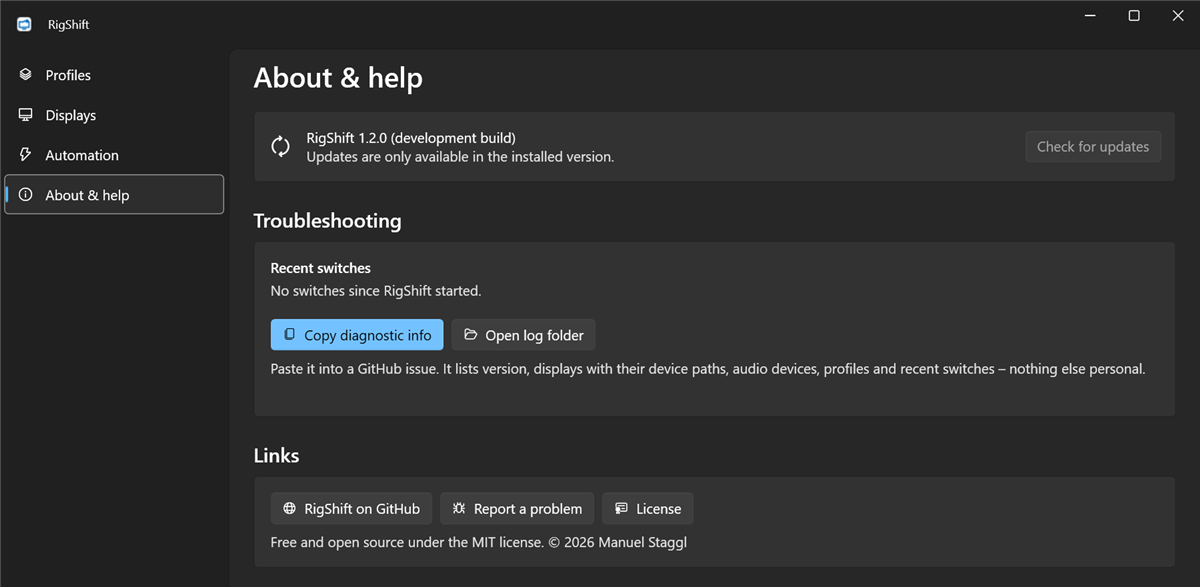
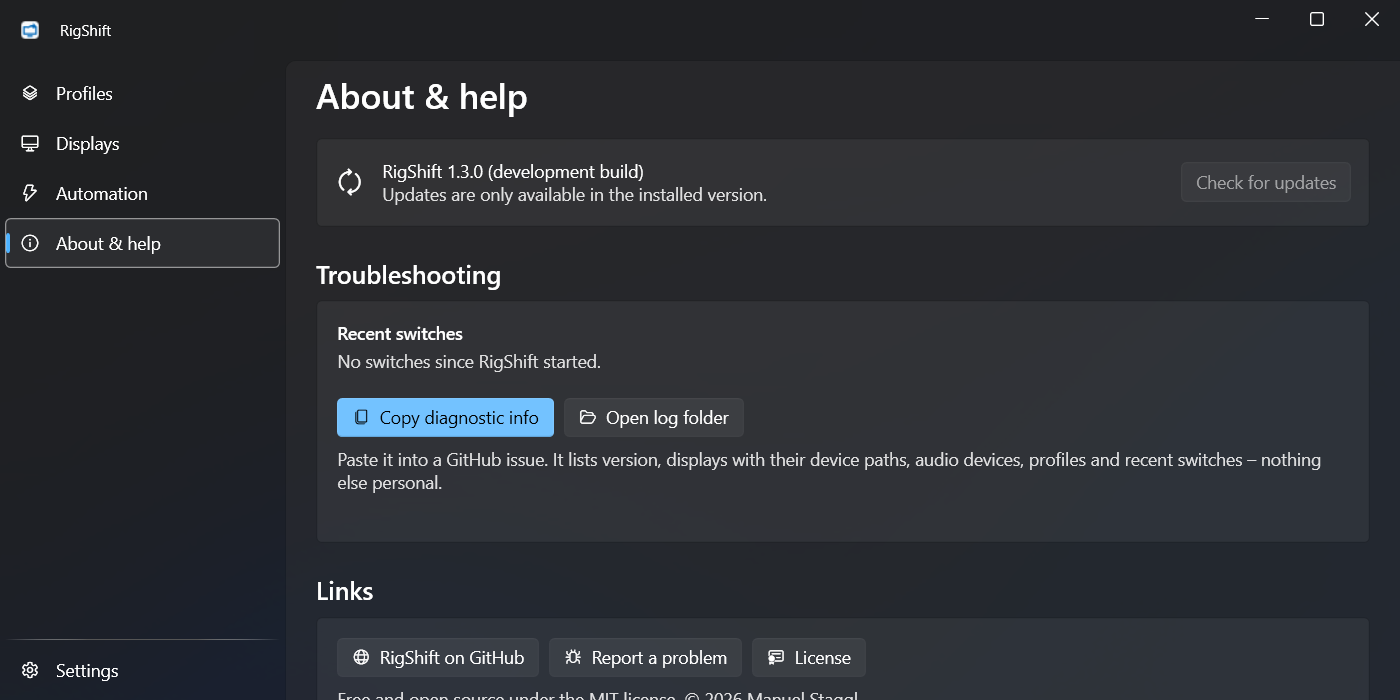
docs: README, roadmap and screenshots for 1.3.0

diff --git a/docs/ROADMAP.md b/docs/ROADMAP.md
@@ -2,6 +2,8 @@
 
 Status legend: 🟢 released · 🟡 built, hardware test pending · ⚪ planned · ❌ dropped
 
+RigShift is meant to stay small: switch into the rig and back, reliably.
+
 ## v1.0 – replace the script, small and stable
 
 | Milestone | Status | Scope |
@@ -14,24 +16,31 @@ Status legend: 🟢 released · 🟡 built, hardware test pending · ⚪ planned
 | M5 Hardware validation | 🟢 | Desk ↔ rig, sleeping HDMI monitor (error 31), missing spacedesk + follow-up, rollback on no confirmation |
 | M6 Release 1.0 | 🟢 | Velopack package, release workflow, README with screenshots, changelog |
 
-## v1.1 – triggering and control
+## v1.1 / v1.2 – triggering and control
 
 - 🟢 Global hotkeys per profile (1.2.0)
 - 🟢 `rigshift://apply/<name>` URI scheme (1.2.0)
 - 🟢 Recording device and separate communications role per profile (1.0)
-- 🟡 Volume per profile (playback and recording)
-- 🟡 Launch / stop apps per profile (SimHub, Crew Chief, …)
-- ❌ Process triggers with game templates – dropped: the switch comes too late, while the game is already starting
 
-## v1.2 – automation and comfort
+## v1.3 – getting into the rig
 
-- 🟡 USB device triggers (wheelbase, headset dongle)
-- 🟡 Keep awake per profile: no sleep, screen saver or display timeout (focus assist and game mode dropped: no
-  official API, and Windows handles both for full-screen games)
-- ❌ Power plan per profile – dropped: no demand
-- 🟡 HDR and refresh rate per display (night light dropped: only an undocumented registry value)
-- ❌ Local HTTP API for scripts, SimHub, Stream Deck – dropped: no demand; the CLI and `rigshift://` links cover scripts
-- ❌ Home Assistant via MQTT discovery – dropped: no demand
+- 🟢 Volume per profile (playback and recording)
+- 🟢 Launch / stop apps per profile (SimHub, Crew Chief, …), optionally after a USB device is detected
+- 🟢 USB device triggers (wheelbase, headset dongle) with a delay per rule before switching back
+- 🟢 Keep awake per profile: no sleep, screen saver or display timeout
+- 🟢 HDR and refresh rate per display
+- 🟢 Windows left on switched-off screens move to the main screen
+- 🟢 Warning when Windows may power down a USB trigger device
+- 🟢 Game sound stays loud during calls (Windows communications ducking off per profile)
+- 🟢 Custom monitor names, Displays and About & help pages
+
+Dropped after a scope review (the tool should stay small):
+
+- ❌ Process triggers with game templates – the switch came too late, while the game was already starting
+- ❌ Power plan per profile – no demand
+- ❌ Local HTTP API – no demand; the CLI, hotkeys and `rigshift://` links cover scripts and Stream Deck
+- ❌ Home Assistant via MQTT discovery – no demand
+- ❌ Focus assist, game mode, night light – no official API
 
 ## v2 – community
 

diff --git a/README.md b/README.md
@@ -61,7 +61,9 @@ Made for getting into the rig:
 | <img alt="Tray popup for switching profiles" src="docs/screenshots/tray-popup-dark.png" width="400"> | <img alt="Confirmation dialog with countdown" src="docs/screenshots/confirmation-dark.png" width="400"> |
 | **Tray popup** – switch profiles from the notification area. | **Safety net** – keep the new layout or it reverts on its own. |
 | <img alt="Profile editor with displays, audio devices and apps" src="docs/screenshots/profile-editor-dark.png" width="400"> | <img alt="Settings page" src="docs/screenshots/settings-dark.png" width="400"> |
-| **Profile editor** – displays, audio devices with volume, apps to start or stop. | **Settings** – default profile, autostart, confirmation time, language. |
+| **Profile editor** – displays with refresh rate and HDR, audio with volume, apps to start or stop. | **Settings** – default profile, autostart, confirmation time, language. |
+| <img alt="Automation page with a wheelbase rule" src="docs/screenshots/automation-dark.png" width="400"> | |
+| **Automation** – switch to the rig when the wheelbase turns on, and back when it is off. | |
 | <img alt="Displays page with monitor names" src="docs/screenshots/displays-dark.png" width="400"> | <img alt="About and help page" src="docs/screenshots/about-dark.png" width="400"> |
 | **Displays** – every connected monitor, your own names, Identify. | **About & help** – version, updates, recent switches, diagnostic info. |
 
